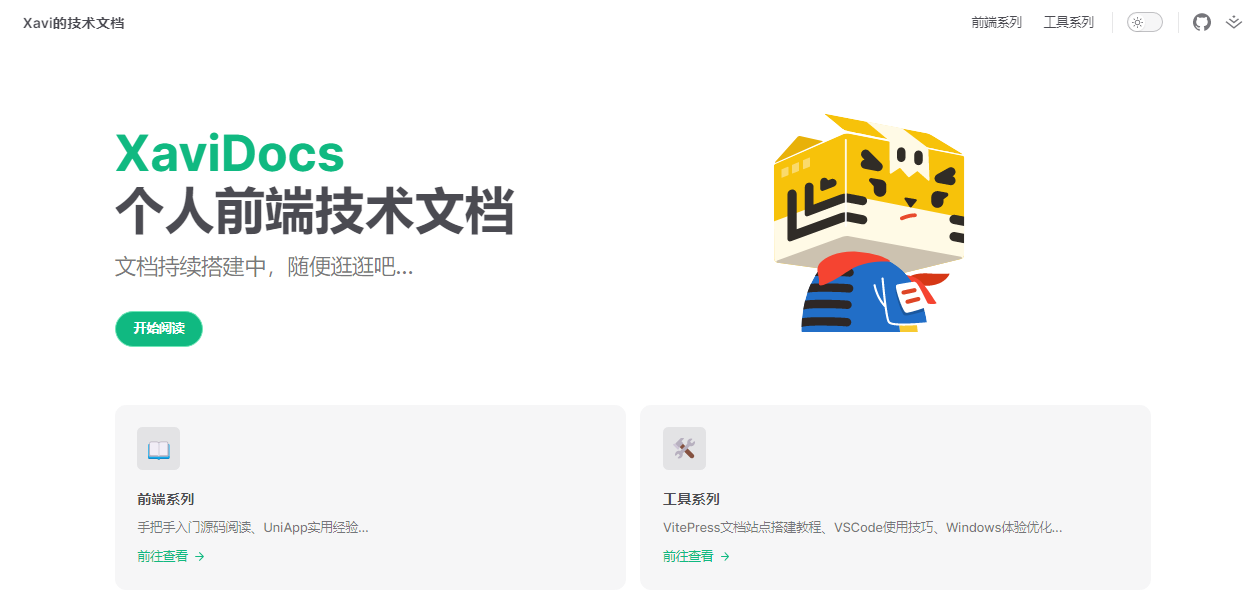
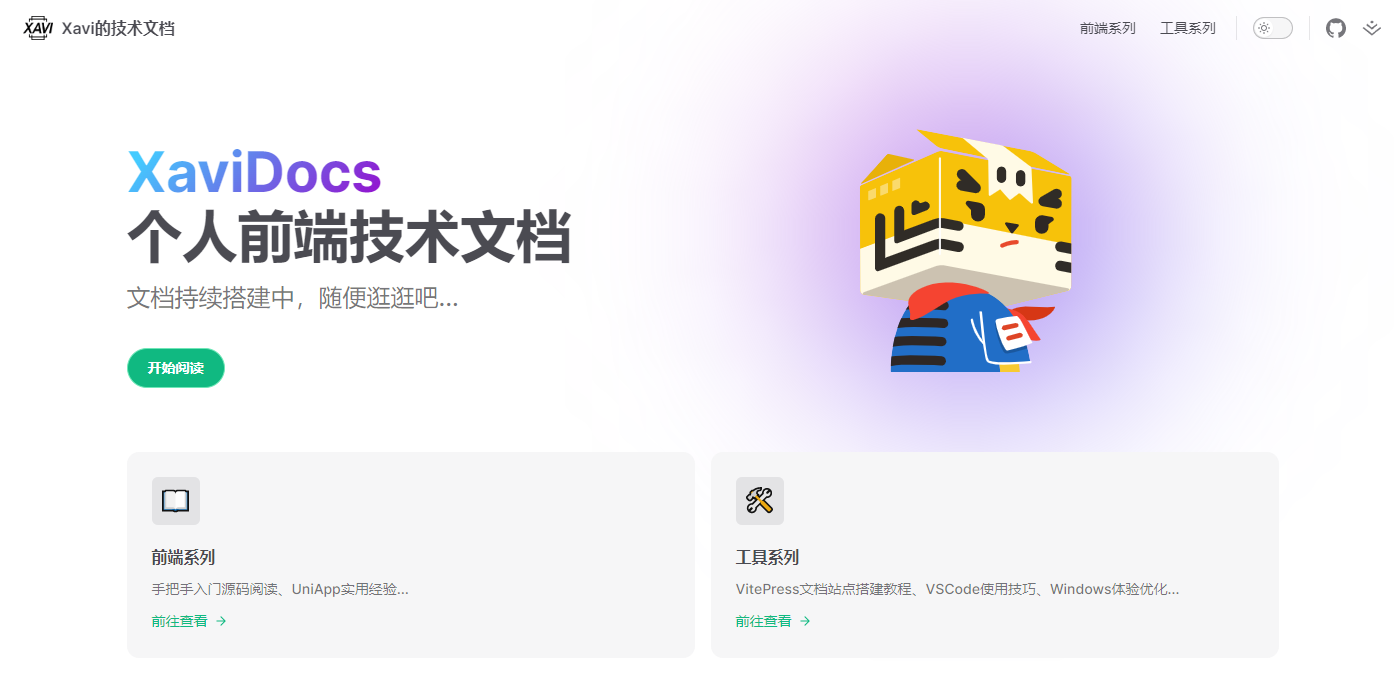
script save

diff --git a/docs/.vitepress/theme/index.ts b/docs/.vitepress/theme/index.ts
@@ -1,22 +1,27 @@
 import DefaultTheme from 'vitepress/theme';
+import './customize.css'
+
+export default DefaultTheme
 
 // export default {
-//   ...DefaultTheme,
-//   // 配置包裹页面
-//   // Layout,
+  // 自定义包裹每一个页面的容器组件
+  // Layout: Component,
 
-//   // 404页面
-//   // NotFound: () => 'custom 404',
+  // 自定义404页面
+  // NotFound: Component,
 
-//   enhanceApp({ app, router, siteData }) {
-//     // app is the Vue 3 app instance from `createApp()`.
-//     // router is VitePress' custom router. `siteData` is
-//     // a `ref` of current site-level metadata.
-//   },
+  // 自定义增强功能
+  // 参数中的app是项目Vue3 App实例
+  // router是路由实例
+  // siteData是当前站点的元数据
+  // enhanceApp({ app, router, siteData }) {
+    // 可以在这里注册全局组件
+    // app.component('Comp', Comp)
 
-//   setup() {
-//     // this function will be executed inside VitePressApp's
-//     // setup hook. all composition APIs are available here.
-//   },
-// };
-export default DefaultTheme
+    // 如果不是完全自定义主题,需要执行主题的默认行为
+    // DefaultTheme.enhanceApp({ app, router, siteData })
+  // },
+
+  // 会在VitePress的setup钩子中执行,所有组合式api均可使用
+  // setup() {},
+// }

diff --git a/docs/.vitepress/sidebar.ts b/docs/.vitepress/sidebar.ts
@@ -20,6 +20,7 @@ const sidebar: DefaultTheme.Sidebar = {
         { text: '进阶语法', link: '/tools/vitepress/syntax' },
         { text: '配置解析', link: '/tools/vitepress/config' },
         { text: '首页配置', link: '/tools/vitepress/home' },
+        { text: '主题配置', link: '/tools/vitepress/theme' },
       ],
     },
     {

diff --git a/docs/.vitepress/config.ts b/docs/.vitepress/config.ts
@@ -47,7 +47,7 @@ export default defineConfig({
     // aside: false,
 
     // logo地址，可以设置亮色与暗色模式使用不同的logo
-    // logo: '',
+    logo: 'images/xavi-logo.png',
 
     // 自定义左侧文档目录顶部的标题，默认使用config.title的值，设置false则为不显示
     // siteTitle?: string | false,

diff --git a/docs/.vitepress/theme/customize.css b/docs/.vitepress/theme/customize.css
@@ -1,0 +1,7 @@
+:root {
+  --vp-home-hero-name-color: transparent;
+  --vp-home-hero-name-background: linear-gradient( 135deg, #43CBFF 10%, #9708CC 100%);
+
+  --vp-home-hero-image-background-image: linear-gradient( 135deg, #EE9AE5 10%, #5961F9 100%);
+  --vp-home-hero-image-filter: blur(100px);
+}

diff --git a/docs/tools/vitepress/theme.md b/docs/tools/vitepress/theme.md
@@ -1,0 +1,97 @@
+# 主题配置
+
+## 自定义主题
+
+新建`docs/.vitepress/theme/index.ts`文件作为项目的主题配置文件
+
+`VitePress`提供了默认主题，在未创建主题配置文件的情况下会直接使用，我们也可以对默认主题进行修改或自定义主题
+
+```ts
+import DefaultTheme from 'vitepress/theme'
+
+export default {
+  // 自定义包裹每一个页面的容器组件
+  Layout: Component,
+
+  // 自定义404页面
+  NotFound: Component,
+
+  // 自定义增强功能
+  // 参数中的app是项目Vue3 App实例
+  // router是路由实例
+  // siteData是当前站点的元数据
+  enhanceApp({ app, router, siteData }) {
+    // 可以在这里注册全局组件
+    app.component('Comp', Comp);
+
+    // 如果不是完全自定义主题,需要执行主题的默认行为
+    DefaultTheme.enhanceApp({ app, router, siteData })
+  },
+
+  // 会在VitePress的setup钩子中执行,所有组合式api均可使用
+  setup() { }
+}
+```
+
+`Layout`组件格式如下：
+
+```vue
+<template>
+  <h1>自定义布局</h1>
+
+  <!-- md页面会渲染到Content中 -->
+  <Content />
+</template>
+```
+
+自定义布局组件还提供了部分关键位置的插槽，可以在[官网](https://vitepress.vuejs.org/guide/theme-introduction#extending-the-default-theme)中查看
+
+## 自定义样式
+
+默认主题中颜色等样式使用的`CSS`原生变量定义，可以通过重写变量或者重写样式类的方式自定义样式
+
+例如新建`customize.css`文件(文件名可以任取)：
+
+```css
+/* docs/.vitepress/theme/customize.css */
+:root {
+  --vp-home-hero-name-color: transparent;
+  --vp-home-hero-name-background: linear-gradient( 135deg, #43CBFF 10%, #9708CC 100%);
+
+  --vp-home-hero-image-background-image: linear-gradient( 135deg, #EE9AE5 10%, #5961F9 100%);
+  --vp-home-hero-image-filter: blur(100px);
+}
+
+```
+
+默认主题详细的`CSS`变量以及类可以在[源码仓库](https://github.com/vuejs/vitepress/tree/main/src/client/theme-default/styles)中查看，变量定义在`vars.css`中
+
+> 渐变色可以在[CoolHue 2.0](https://webkul.github.io/coolhue/)中查找
+
+上面的代码便是本站首页中重写的样式，定义后在样式配置文件中引入即可覆盖默认样式：
+
+```ts
+// docs/.vitepress/theme/index.ts
+import DefaultTheme from 'vitepress/theme';
+import './customize.css'
+
+export default DefaultTheme
+```
+
+## 使用其他主题
+
+上面介绍了`VitePress`自定义主题的方法，自然能够找到开源的自定义主题
+
+在GitHub中搜索[vitepress-theme](https://github.com/search?o=desc&q=vitepress-theme&s=stars&type=Repositories)，并按`starts`排序，能看到开源主题数量还是比较多的
+
+因为VitePress还处在测试版，所以主题能力还不够完善，这些开源主题大多需要Clone源码后修改使用，而难以直接下载引入。主题仓库中使用介绍都比较详细，这里不在细说，可以自行探索。下面放两个开源主题预览图：
+
+1. [vitepress-blog-zaun](https://github.com/clark-cui/vitepress-blog-zaun)
+
+![vitepress-theme-sakura](/images/tools/vitepress-theme-1.png)
+
+<hr />
+
+2. [vitepress-theme-sakura](https://github.com/flaribbit/vitepress-theme-sakura)
+
+![vitepress-theme-sakura](/images/tools/vitepress-theme-2.webp)

diff --git a/docs/tools/vitepress/home.md b/docs/tools/vitepress/home.md
@@ -8,13 +8,14 @@
 
 支持`doc`、`home`、`page`
 
-- `doc`表示页面应用为md页面样式
-- `home`表示页面应用为首页，可以添加首页特有的选项
-- `page`表示页面完全自定义样式
+- `doc`表示页面使用`md`页面布局
+- `home`表示页面使用首页布局，可以添加首页特有的选项
+- `page`页面任然会解析`md`，但不会应用任何样式，需要自定义样式
+- 设置为`false`可以取消布局，完全自定义页面
 
 将首页`index.md`中的`layout`设置为`home`后，便可以添加下面的`hero`、`features`属性，定义首页内容
 
-设置为`home`后可以继续使用`Vue`代码添加自定义内容，设置通过设置为`page`完全自定义首页
+设置为`home`后可以继续使用`Vue`代码添加自定义内容，甚至可以通过设置为`page`、`false`完全自定义首页
 
 ## 介绍-hero
 
@@ -84,10 +85,10 @@ features:
 ---
 ```
 
-> `Windows`通过快捷键`徽标键 + .`即可打开表情符号选择，也可以在浏览器中搜索后复制使用
+> `Windows`通过快捷键`Win + .`即可打开表情符号选择，也可以在浏览器中搜索后复制使用
 
 ## 效果
 
-上面的代码得到的效果就是本站首页的效果：
+上面的代码得到的效果就是本站首页的效果，如何自定义样式，会在下一篇文章-[主题配置](/tools/vitepress/theme)中介绍：
 
 ![首页](/images/tools/vitepress-home-1.png)

diff --git a/docs/tools/vitepress/start.md b/docs/tools/vitepress/start.md
@@ -4,6 +4,14 @@
 
 除了支持标准和扩展的`md`语法外，`VitePress`还支持在`md`文档内书写`Vue`语法，非常适合前端组件库文档或普通技术文档的搭建
 
+::: info
+如果不想了解完整的使用方式，也可以直接克隆本站仓库后修改使用
+
+```shell 
+git clone --depth 1 https://github.com/Xaviw/XaviDocs.git
+```
+:::
+
 ## 一、创建项目
 
 ::: tip 环境要求
@@ -73,6 +81,7 @@ npm i -D vitepress vue
   node_modules/
   /docs/.vitepress/dist/
   /docs/.vitepress/cache/
+  /docs/.vitepress/.temp/
 
   .env.local
   .env.*.local

diff --git a/docs/tools/vitepress/syntax.md b/docs/tools/vitepress/syntax.md
@@ -268,7 +268,7 @@ export default defineConfig({
 
 <hr />
 
-多处使用的组件可以在`.VitePress/theme/index.js`中使用`enhanceApp`配置，该函数参数为 app 实例
+多处使用的组件可以在`.VitePress/theme/index.js`中使用`enhanceApp`配置公共组件，更详细的介绍查看[主题配置](/tools/vitepress/theme)
 
 ```js
 import DefaultTheme from 'VitePress/theme';
